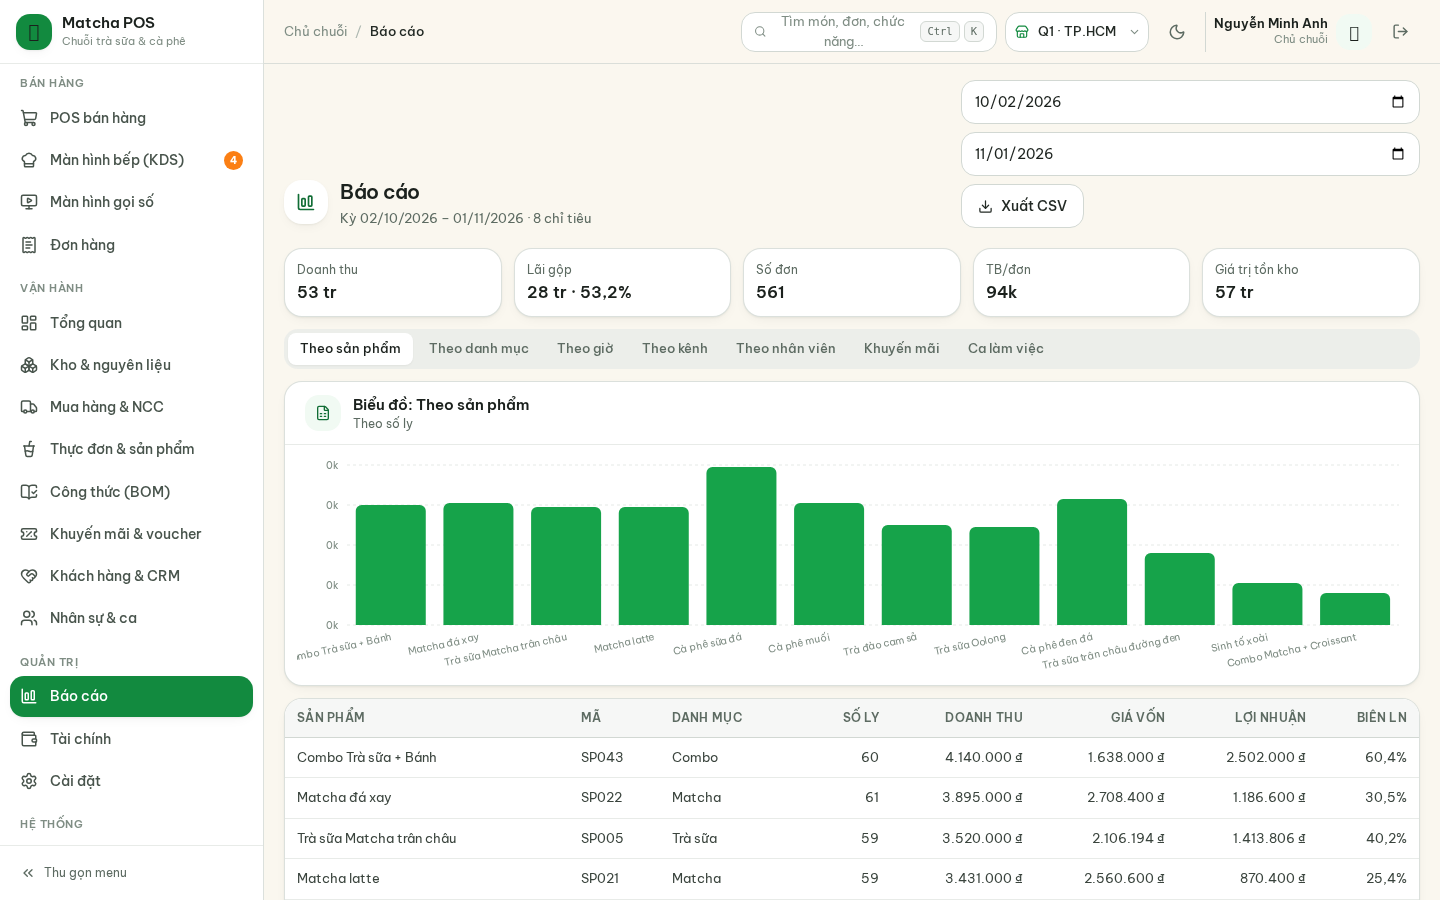
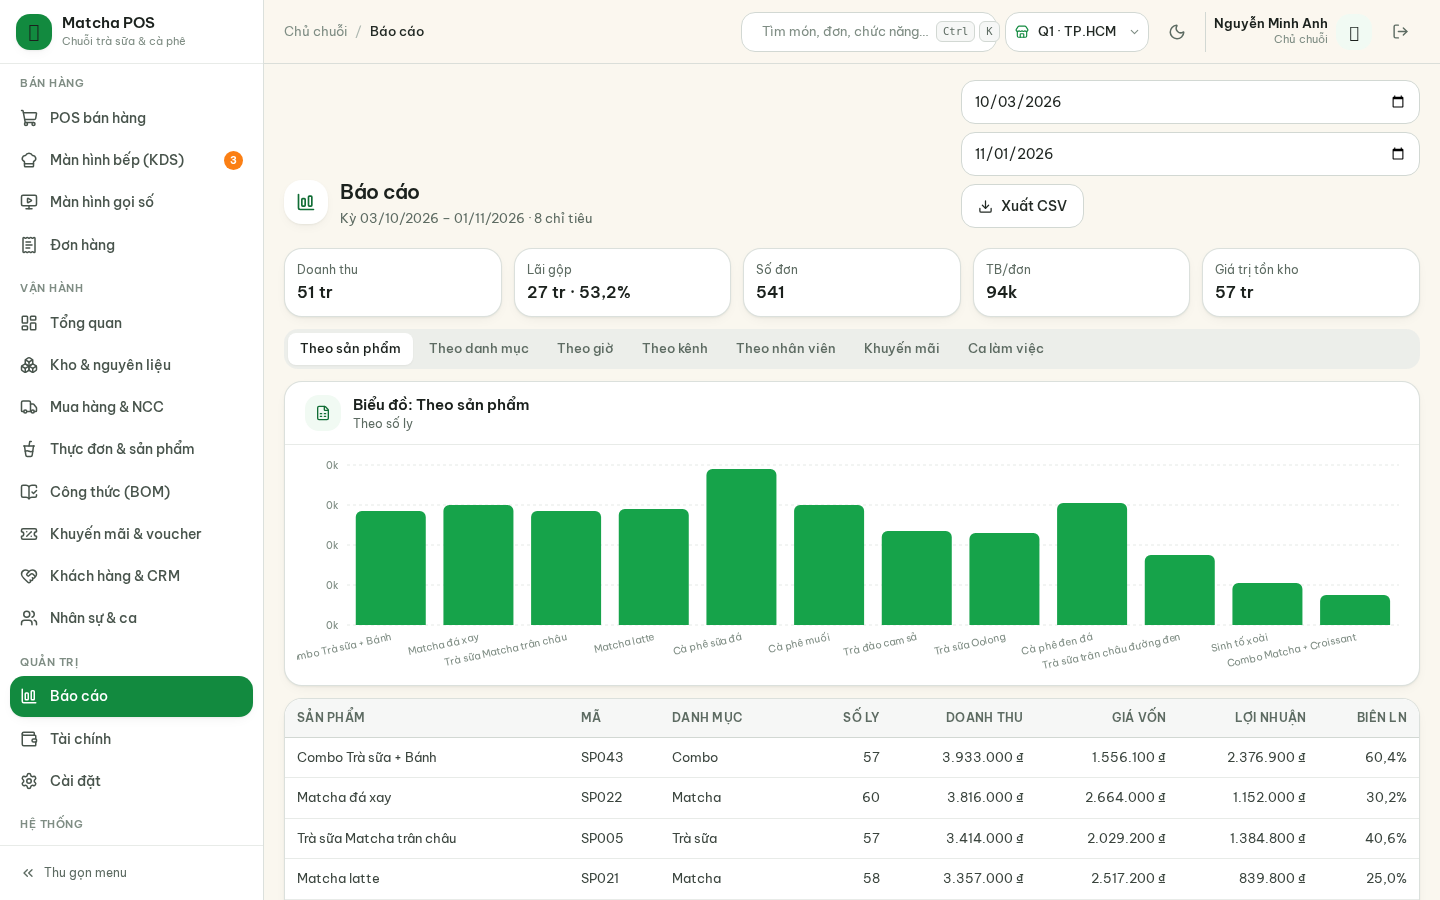
Sửa lỗi lệch 1 ngày trong addDays (báo cáo/dashboard), cập nhật build + README deploy

diff --git a/build/assets/index-DjHjswyF.js b/build/assets/index-DjHjswyF.js
@@ -385,7 +385,7 @@ CREATE TABLE app_meta (
     INSERT INTO inventory_stock (branch_id, ingredient_id, qty, avg_cost, updated_at)
     SELECT branch_id, ingredient_id, ROUND(SUM(qty), 2), MAX(unit_cost), '${F(Fi)}'
     FROM inventory_txns GROUP BY branch_id, ingredient_id
-  `);let de=1,fe=[[`rent`,55e6],[`salary`,0],[`utilities`,85e5],[`marketing`,6e6],[`other`,32e5]];for(let e=2;e>=0;e--){let t=new Date(Fi);t.setUTCMonth(t.getUTCMonth()-e,1);let r=`${t.getUTCFullYear()}-${String(t.getUTCMonth()+1).padStart(2,`0`)}`;Li.forEach((e,t)=>{let i=[1,.82,.92][t];fe.forEach(([e,a])=>{e!==`salary`&&n(`finance_entries`,{id:de++,branch_id:t+1,entry_date:`${r}-05`,type:`expense`,category:e,amount:Math.round(a*i),ref_type:null,ref_id:null,note:e===`rent`?`Tiền thuê mặt bằng`:e===`utilities`?`Điện, nước, internet`:e===`marketing`?`Quảng cáo & POS`:`Chi phí khác`,created_by:10,created_at:`${r}-05 09:00:00`})});let a=Ri.filter(e=>e.branch===t+1).reduce((e,t)=>e+t.salary,0);n(`finance_entries`,{id:de++,branch_id:t+1,entry_date:`${r}-28`,type:`expense`,category:`salary`,amount:a,note:`Chi lương nhân sự tháng`,created_by:10,created_at:`${r}-28 17:00:00`})})}let E=e.exec(`SELECT id, branch_id, total, received_at FROM purchase_orders WHERE status='received' ORDER BY id`);return E[0]&&E[0].values.forEach(([e,t,r,i])=>{n(`finance_entries`,{id:de++,branch_id:t,entry_date:String(i).slice(0,10),type:`expense`,category:`purchase`,amount:r,ref_type:`purchase_orders`,ref_id:e,note:`Thanh toán nhập hàng PO${String(e).padStart(4,`0`)}`,created_by:10,created_at:String(i)})}),[[`update_price`,`products`,`1`,`Đổi giá Trà sữa trân châu: 42.000 → 45.000`],[`cancel_order`,`orders`,`2`,`Huỷ đơn HD20261028-0012, lý do: khách đổi ý`],[`stock_adjust`,`inventory_stock`,`12`,`Điều chỉnh tồn trân châu đen +120g`],[`apply_voucher`,`vouchers`,`1`,`Áp voucher MATCHA20 cho đơn 200k`],[`create_po`,`purchase_orders`,`3`,`Tạo PO từ đề xuất tồn kho thấp`]].forEach(([e,t,r,i],a)=>n(`audit_logs`,{id:a+1,user_id:[2,2,10,4,1][a],action:e,entity:t,entity_id:r,before_value:null,after_value:JSON.stringify({note:i}),created_at:`2026-10-${20+a} 10:${10+a*5}:00`})),n(`app_meta`,{key:`schema_version`,value:`3`}),n(`app_meta`,{key:`seeded_at`,value:F(Fi)}),n(`app_meta`,{key:`currency`,value:`VND`}),n(`app_meta`,{key:`timezone`,value:`Asia/Ho_Chi_Minh`}),e.run(`COMMIT`),`branches.users.categories.products.product_sizes.toppings.product_toppings.orders.order_items.order_item_toppings.payments.order_events.dining_tables.shifts.shift_cash_txns.ingredients.recipes.inventory_stock.inventory_txns.suppliers.purchase_orders.purchase_order_items.customers.vouchers.promotions.finance_entries.audit_logs.app_meta`.split(`.`).forEach(n=>{let r=e.exec(`SELECT COUNT(*) FROM ${n}`);t[n]=r[0]?.values[0][0]}),{counts:t,seededAt:F(Fi)}}var ea=new Map;Bi.forEach((e,t)=>{let n=Gi[e.name]??[];(e.noSize?[[`M`,1]]:[[`S`,.85],[`M`,1],[`L`,1.2]]).forEach(([e,r])=>{ea.set(`${t+1}-${e}`,n.map(([e,t])=>[Wi.get(e)+1,Math.max(1,Math.round(t*r))]))})});var ta=`matcha-pos`,na=`sqlite`,ra=`db-bytes`,ia=`db-meta`,aa=null,oa=null,sa=new Set,ca=typeof BroadcastChannel<`u`?new BroadcastChannel(`matcha-pos`):null;ca?.addEventListener(`message`,()=>sa.forEach(e=>e()));var la={subscribe(e){return sa.add(e),()=>sa.delete(e)},emit(){sa.forEach(e=>e());try{ca?.postMessage({t:Date.now()})}catch{}}};function ua(){return new Promise((e,t)=>{let n=indexedDB.open(ta,1);n.onupgradeneeded=()=>{n.result.objectStoreNames.contains(na)||n.result.createObjectStore(na)},n.onsuccess=()=>e(n.result),n.onerror=()=>t(n.error)})}async function da(e){let t=await ua();return new Promise((n,r)=>{let i=t.transaction(na,`readonly`).objectStore(na).get(e);i.onsuccess=()=>n(i.result),i.onerror=()=>r(i.error)})}async function fa(e,t){let n=await ua();return new Promise((r,i)=>{let a=n.transaction(na,`readwrite`);a.objectStore(na).put(t,e),a.oncomplete=()=>r(),a.onerror=()=>i(a.error)})}async function pa(){let e=await ua();return new Promise((t,n)=>{let r=e.transaction(na,`readwrite`);r.objectStore(na).clear(),r.oncomplete=()=>t(),r.onerror=()=>n(r.error)})}var ma=null,ha=!1;function ga(e=!1){ha=!0,ma&&clearTimeout(ma);let t=async()=>{if(!aa||!ha)return;ha=!1;let e=aa.export();await fa(ra,e),await fa(ia,{version:3,savedAt:new Date().toISOString(),size:e.byteLength})};if(e)return t();ma=setTimeout(()=>void t(),900)}async function _a(e){let t=performance.now();e?.({step:`Khởi động SQLite WASM`,detail:`sql.js · ~1.2MB`}),oa=await(0,Ti.default)({locateFile:()=>oe}),e?.({step:`Tìm dữ liệu đã lưu`,detail:`IndexedDB`});let n=await da(ra),r=await da(ia);if(n&&r?.version===3)return aa=new oa.Database(n),aa.run(`PRAGMA foreign_keys = ON`),e?.({step:`Đã nạp dữ liệu`,detail:`${(n.byteLength/1048576).toFixed(1)} MB từ IndexedDB`}),{seeded:!1,ms:Math.round(performance.now()-t)};e?.({step:`Tạo schema quan hệ`,detail:`28 bảng · PK/FK · index`}),aa=new oa.Database,await new Promise(e=>setTimeout(e,30)),e?.({step:`Sinh dữ liệu demo 90 ngày`,detail:`3 chi nhánh · 220 khách · ~4.000 đơn`});let i=$i(aa);return aa.run(`PRAGMA foreign_keys = ON`),e?.({step:`Lưu vào IndexedDB`,detail:`${(aa.export().byteLength/1048576).toFixed(1)} MB`}),await ga(!0),console.info(`[matcha-pos] seeded`,i.counts),{seeded:!0,ms:Math.round(performance.now()-t)}}function va(){if(!aa)throw Error(`CSDL chưa sẵn sàng`);return aa}async function ya(e){return e?.({step:`Xoá dữ liệu cũ`}),await pa(),aa?.close(),aa=null,_a(e)}function I(e,t=[]){let n=va().prepare(e);try{n.bind(t);let e=[];for(;n.step();)e.push(n.getAsObject());return e}finally{n.free()}}function L(e,t=[]){let n=I(e,t);return n.length?n[0]:null}function R(e,t=[]){let n=I(e,t);return n.length?Object.values(n[0])[0]??null:null}function z(e,t=[],n={}){va().run(e,t),n.silent||(ga(),la.emit())}function ba(e,t={}){let n=va();n.run(`BEGIN`);try{e.forEach(e=>n.run(e.sql,e.params??[])),n.run(`COMMIT`)}catch(e){throw n.run(`ROLLBACK`),e}t.silent||(ga(),la.emit())}function xa(){return R(`SELECT last_insert_rowid()`)??0}function Sa(e){return R(`SELECT COUNT(*) FROM "${e}"`)??0}function Ca(){return aa?aa.export().byteLength:0}function wa(e){let t=e.trim().replace(/;+\s*$/,``),n=t.split(/\s+/)[0]?.toLowerCase();if(![`select`,`with`,`pragma`,`explain`].includes(n))throw Error(`Chỉ cho phép truy vấn đọc dữ liệu (SELECT / WITH / PRAGMA / EXPLAIN).`);if(/;\s*\S/.test(t))throw Error(`Mỗi lần chỉ chạy một câu lệnh.`);if(/\b(insert|update|delete|drop|alter|create|replace|attach|vacuum|reindex)\b/i.test(t))throw Error(`Phát hiện từ khoá ghi dữ liệu — SQL Console ở chế độ chỉ đọc.`);let r=performance.now(),i=va().exec(t),a=Math.round((performance.now()-r)*10)/10;if(!i.length)return{columns:[],rows:[],ms:a,rowCount:0};let{columns:o,values:s}=i[0];return{columns:o,rows:s.slice(0,500),ms:a,rowCount:s.length}}var Ta=`Asia/Ho_Chi_Minh`;function B(e,t={}){let n=Number(e??0);if(t.compact){let e=Math.abs(n),r=n<0?`-`:t.sign&&n>0?`+`:``;if(e>=1e9)return`${r}${(e/1e9).toFixed(e>=1e10?0:1).replace(`.`,`,`)} tỷ`;if(e>=1e6)return`${r}${(e/1e6).toFixed(e>=1e7?0:1).replace(`.`,`,`)} tr`;if(e>=1e4)return`${r}${Math.round(e/1e3)}k`}let r=new Intl.NumberFormat(`vi-VN`,{maximumFractionDigits:0}).format(n);return t.sign&&n>0?`+${r} ₫`:`${r} ₫`}function V(e,t=0){let n=Number(e??0);return new Intl.NumberFormat(`vi-VN`,{maximumFractionDigits:t,minimumFractionDigits:0}).format(n)}function Ea(e,t=1){return`${(e*100).toFixed(t).replace(`.`,`,`)}%`}function Da(e){if(!e)return null;let t=e.includes(`T`)?e:e.replace(` `,`T`),n=new Date(t.length<=10?`${t}T00:00:00+07:00`:`${t}+07:00`);return isNaN(n.getTime())?null:n}function Oa(e){return e?e.slice(0,10).split(`-`).reverse().join(`/`):`—`}function ka(e){return e?`${Oa(e)} ${e.slice(11,16)}`:`—`}function Aa(e){return e?e.slice(11,16):`—`}function H(){let e=new Intl.DateTimeFormat(`en-GB`,{timeZone:Ta,year:`numeric`,month:`2-digit`,day:`2-digit`,hour:`2-digit`,minute:`2-digit`,second:`2-digit`,hour12:!1}).formatToParts(new Date),t=t=>e.find(e=>e.type===t)?.value??`00`;return`${t(`year`)}-${t(`month`)}-${t(`day`)} ${t(`hour`)===`24`?`00`:t(`hour`)}:${t(`minute`)}:${t(`second`)}`}function ja(){return H().slice(0,10)}function Ma(e,t){let n=Da(e);return n.setUTCDate(n.getUTCDate()+t),n.toISOString().slice(0,10)}function Na(e){let t=Da(e);if(!t)return 0;let n=Da(H());return Math.max(0,Math.round((n.getTime()-t.getTime())/6e4))}function Pa(e){let t=Na(e);return t<1?`vừa xong`:t<60?`${t} phút`:`${Math.floor(t/60)}h${String(t%60).padStart(2,`0`)}`}var Fa={dine_in:`Tại quán`,takeaway:`Mang đi`,delivery:`Giao hàng`},Ia={pos:`POS`,grabfood:`GrabFood`,shopeefood:`ShopeeFood`,website:`Website`,app:`App`},La={pending:`Chờ pha chế`,preparing:`Đang pha chế`,ready:`Sẵn sàng`,completed:`Hoàn tất`,cancelled:`Đã huỷ`,draft:`Nháp`,ordered:`Đã đặt`,received:`Đã nhận`,open:`Đang mở`,closed:`Đã chốt`},Ra={cash:`Tiền mặt`,qr:`Chuyển khoản / VietQR`,card:`Thẻ ngân hàng`,momo:`Ví MoMo`,zalopay:`ZaloPay`,credit:`Ghi nợ`},za={owner:`Chủ chuỗi`,manager:`Quản lý cửa hàng`,cashier:`Thu ngân`,barista:`Pha chế / Bếp`,accountant:`Kế toán / Kho`},Ba={bronze:{label:`Đồng`,color:`bg-amber-100 text-amber-800`,emoji:`🥉`},silver:{label:`Bạc`,color:`bg-slate-100 text-slate-700`,emoji:`🥈`},gold:{label:`Vàng`,color:`bg-yellow-100 text-yellow-800`,emoji:`🥇`},diamond:{label:`Kim cương`,color:`bg-sky-100 text-sky-800`,emoji:`💎`}};function U(...e){return e.filter(Boolean).join(` `)}function Va(e){return(e||``).normalize(`NFD`).replace(/[\u0300-\u036f]/g,``).replace(/đ/g,`d`).replace(/Đ/g,`D`).toLowerCase()}function Ha(e){let t=e==null?``:String(e);return/[",\n;]/.test(t)?`"${t.replace(/"/g,`""`)}"`:t}function Ua(e,t,n=`text/csv;charset=utf-8;`){let r=new Blob([``+t],{type:n}),i=URL.createObjectURL(r),a=document.createElement(`a`);a.href=i,a.download=e,a.click(),setTimeout(()=>URL.revokeObjectURL(i),1e3)}function Wa(e,t){if(!e.length)return``;let n=t??Object.keys(e[0]);return`${n.join(`,`)}\n${e.map(e=>n.map(t=>Ha(e[t])).join(`,`)).join(`
+  `);let de=1,fe=[[`rent`,55e6],[`salary`,0],[`utilities`,85e5],[`marketing`,6e6],[`other`,32e5]];for(let e=2;e>=0;e--){let t=new Date(Fi);t.setUTCMonth(t.getUTCMonth()-e,1);let r=`${t.getUTCFullYear()}-${String(t.getUTCMonth()+1).padStart(2,`0`)}`;Li.forEach((e,t)=>{let i=[1,.82,.92][t];fe.forEach(([e,a])=>{e!==`salary`&&n(`finance_entries`,{id:de++,branch_id:t+1,entry_date:`${r}-05`,type:`expense`,category:e,amount:Math.round(a*i),ref_type:null,ref_id:null,note:e===`rent`?`Tiền thuê mặt bằng`:e===`utilities`?`Điện, nước, internet`:e===`marketing`?`Quảng cáo & POS`:`Chi phí khác`,created_by:10,created_at:`${r}-05 09:00:00`})});let a=Ri.filter(e=>e.branch===t+1).reduce((e,t)=>e+t.salary,0);n(`finance_entries`,{id:de++,branch_id:t+1,entry_date:`${r}-28`,type:`expense`,category:`salary`,amount:a,note:`Chi lương nhân sự tháng`,created_by:10,created_at:`${r}-28 17:00:00`})})}let E=e.exec(`SELECT id, branch_id, total, received_at FROM purchase_orders WHERE status='received' ORDER BY id`);return E[0]&&E[0].values.forEach(([e,t,r,i])=>{n(`finance_entries`,{id:de++,branch_id:t,entry_date:String(i).slice(0,10),type:`expense`,category:`purchase`,amount:r,ref_type:`purchase_orders`,ref_id:e,note:`Thanh toán nhập hàng PO${String(e).padStart(4,`0`)}`,created_by:10,created_at:String(i)})}),[[`update_price`,`products`,`1`,`Đổi giá Trà sữa trân châu: 42.000 → 45.000`],[`cancel_order`,`orders`,`2`,`Huỷ đơn HD20261028-0012, lý do: khách đổi ý`],[`stock_adjust`,`inventory_stock`,`12`,`Điều chỉnh tồn trân châu đen +120g`],[`apply_voucher`,`vouchers`,`1`,`Áp voucher MATCHA20 cho đơn 200k`],[`create_po`,`purchase_orders`,`3`,`Tạo PO từ đề xuất tồn kho thấp`]].forEach(([e,t,r,i],a)=>n(`audit_logs`,{id:a+1,user_id:[2,2,10,4,1][a],action:e,entity:t,entity_id:r,before_value:null,after_value:JSON.stringify({note:i}),created_at:`2026-10-${20+a} 10:${10+a*5}:00`})),n(`app_meta`,{key:`schema_version`,value:`3`}),n(`app_meta`,{key:`seeded_at`,value:F(Fi)}),n(`app_meta`,{key:`currency`,value:`VND`}),n(`app_meta`,{key:`timezone`,value:`Asia/Ho_Chi_Minh`}),e.run(`COMMIT`),`branches.users.categories.products.product_sizes.toppings.product_toppings.orders.order_items.order_item_toppings.payments.order_events.dining_tables.shifts.shift_cash_txns.ingredients.recipes.inventory_stock.inventory_txns.suppliers.purchase_orders.purchase_order_items.customers.vouchers.promotions.finance_entries.audit_logs.app_meta`.split(`.`).forEach(n=>{let r=e.exec(`SELECT COUNT(*) FROM ${n}`);t[n]=r[0]?.values[0][0]}),{counts:t,seededAt:F(Fi)}}var ea=new Map;Bi.forEach((e,t)=>{let n=Gi[e.name]??[];(e.noSize?[[`M`,1]]:[[`S`,.85],[`M`,1],[`L`,1.2]]).forEach(([e,r])=>{ea.set(`${t+1}-${e}`,n.map(([e,t])=>[Wi.get(e)+1,Math.max(1,Math.round(t*r))]))})});var ta=`matcha-pos`,na=`sqlite`,ra=`db-bytes`,ia=`db-meta`,aa=null,oa=null,sa=new Set,ca=typeof BroadcastChannel<`u`?new BroadcastChannel(`matcha-pos`):null;ca?.addEventListener(`message`,()=>sa.forEach(e=>e()));var la={subscribe(e){return sa.add(e),()=>sa.delete(e)},emit(){sa.forEach(e=>e());try{ca?.postMessage({t:Date.now()})}catch{}}};function ua(){return new Promise((e,t)=>{let n=indexedDB.open(ta,1);n.onupgradeneeded=()=>{n.result.objectStoreNames.contains(na)||n.result.createObjectStore(na)},n.onsuccess=()=>e(n.result),n.onerror=()=>t(n.error)})}async function da(e){let t=await ua();return new Promise((n,r)=>{let i=t.transaction(na,`readonly`).objectStore(na).get(e);i.onsuccess=()=>n(i.result),i.onerror=()=>r(i.error)})}async function fa(e,t){let n=await ua();return new Promise((r,i)=>{let a=n.transaction(na,`readwrite`);a.objectStore(na).put(t,e),a.oncomplete=()=>r(),a.onerror=()=>i(a.error)})}async function pa(){let e=await ua();return new Promise((t,n)=>{let r=e.transaction(na,`readwrite`);r.objectStore(na).clear(),r.oncomplete=()=>t(),r.onerror=()=>n(r.error)})}var ma=null,ha=!1;function ga(e=!1){ha=!0,ma&&clearTimeout(ma);let t=async()=>{if(!aa||!ha)return;ha=!1;let e=aa.export();await fa(ra,e),await fa(ia,{version:3,savedAt:new Date().toISOString(),size:e.byteLength})};if(e)return t();ma=setTimeout(()=>void t(),900)}async function _a(e){let t=performance.now();e?.({step:`Khởi động SQLite WASM`,detail:`sql.js · ~1.2MB`}),oa=await(0,Ti.default)({locateFile:()=>oe}),e?.({step:`Tìm dữ liệu đã lưu`,detail:`IndexedDB`});let n=await da(ra),r=await da(ia);if(n&&r?.version===3)return aa=new oa.Database(n),aa.run(`PRAGMA foreign_keys = ON`),e?.({step:`Đã nạp dữ liệu`,detail:`${(n.byteLength/1048576).toFixed(1)} MB từ IndexedDB`}),{seeded:!1,ms:Math.round(performance.now()-t)};e?.({step:`Tạo schema quan hệ`,detail:`28 bảng · PK/FK · index`}),aa=new oa.Database,await new Promise(e=>setTimeout(e,30)),e?.({step:`Sinh dữ liệu demo 90 ngày`,detail:`3 chi nhánh · 220 khách · ~4.000 đơn`});let i=$i(aa);return aa.run(`PRAGMA foreign_keys = ON`),e?.({step:`Lưu vào IndexedDB`,detail:`${(aa.export().byteLength/1048576).toFixed(1)} MB`}),await ga(!0),console.info(`[matcha-pos] seeded`,i.counts),{seeded:!0,ms:Math.round(performance.now()-t)}}function va(){if(!aa)throw Error(`CSDL chưa sẵn sàng`);return aa}async function ya(e){return e?.({step:`Xoá dữ liệu cũ`}),await pa(),aa?.close(),aa=null,_a(e)}function I(e,t=[]){let n=va().prepare(e);try{n.bind(t);let e=[];for(;n.step();)e.push(n.getAsObject());return e}finally{n.free()}}function L(e,t=[]){let n=I(e,t);return n.length?n[0]:null}function R(e,t=[]){let n=I(e,t);return n.length?Object.values(n[0])[0]??null:null}function z(e,t=[],n={}){va().run(e,t),n.silent||(ga(),la.emit())}function ba(e,t={}){let n=va();n.run(`BEGIN`);try{e.forEach(e=>n.run(e.sql,e.params??[])),n.run(`COMMIT`)}catch(e){throw n.run(`ROLLBACK`),e}t.silent||(ga(),la.emit())}function xa(){return R(`SELECT last_insert_rowid()`)??0}function Sa(e){return R(`SELECT COUNT(*) FROM "${e}"`)??0}function Ca(){return aa?aa.export().byteLength:0}function wa(e){let t=e.trim().replace(/;+\s*$/,``),n=t.split(/\s+/)[0]?.toLowerCase();if(![`select`,`with`,`pragma`,`explain`].includes(n))throw Error(`Chỉ cho phép truy vấn đọc dữ liệu (SELECT / WITH / PRAGMA / EXPLAIN).`);if(/;\s*\S/.test(t))throw Error(`Mỗi lần chỉ chạy một câu lệnh.`);if(/\b(insert|update|delete|drop|alter|create|replace|attach|vacuum|reindex)\b/i.test(t))throw Error(`Phát hiện từ khoá ghi dữ liệu — SQL Console ở chế độ chỉ đọc.`);let r=performance.now(),i=va().exec(t),a=Math.round((performance.now()-r)*10)/10;if(!i.length)return{columns:[],rows:[],ms:a,rowCount:0};let{columns:o,values:s}=i[0];return{columns:o,rows:s.slice(0,500),ms:a,rowCount:s.length}}var Ta=`Asia/Ho_Chi_Minh`;function B(e,t={}){let n=Number(e??0);if(t.compact){let e=Math.abs(n),r=n<0?`-`:t.sign&&n>0?`+`:``;if(e>=1e9)return`${r}${(e/1e9).toFixed(e>=1e10?0:1).replace(`.`,`,`)} tỷ`;if(e>=1e6)return`${r}${(e/1e6).toFixed(e>=1e7?0:1).replace(`.`,`,`)} tr`;if(e>=1e4)return`${r}${Math.round(e/1e3)}k`}let r=new Intl.NumberFormat(`vi-VN`,{maximumFractionDigits:0}).format(n);return t.sign&&n>0?`+${r} ₫`:`${r} ₫`}function V(e,t=0){let n=Number(e??0);return new Intl.NumberFormat(`vi-VN`,{maximumFractionDigits:t,minimumFractionDigits:0}).format(n)}function Ea(e,t=1){return`${(e*100).toFixed(t).replace(`.`,`,`)}%`}function Da(e){if(!e)return null;let t=e.includes(`T`)?e:e.replace(` `,`T`),n=new Date(t.length<=10?`${t}T00:00:00+07:00`:`${t}+07:00`);return isNaN(n.getTime())?null:n}function Oa(e){return e?e.slice(0,10).split(`-`).reverse().join(`/`):`—`}function ka(e){return e?`${Oa(e)} ${e.slice(11,16)}`:`—`}function Aa(e){return e?e.slice(11,16):`—`}function H(){let e=new Intl.DateTimeFormat(`en-GB`,{timeZone:Ta,year:`numeric`,month:`2-digit`,day:`2-digit`,hour:`2-digit`,minute:`2-digit`,second:`2-digit`,hour12:!1}).formatToParts(new Date),t=t=>e.find(e=>e.type===t)?.value??`00`;return`${t(`year`)}-${t(`month`)}-${t(`day`)} ${t(`hour`)===`24`?`00`:t(`hour`)}:${t(`minute`)}:${t(`second`)}`}function ja(){return H().slice(0,10)}function Ma(e,t){let n=new Date(`${e.slice(0,10)}T00:00:00Z`);return n.setUTCDate(n.getUTCDate()+t),n.toISOString().slice(0,10)}function Na(e){let t=Da(e);if(!t)return 0;let n=Da(H());return Math.max(0,Math.round((n.getTime()-t.getTime())/6e4))}function Pa(e){let t=Na(e);return t<1?`vừa xong`:t<60?`${t} phút`:`${Math.floor(t/60)}h${String(t%60).padStart(2,`0`)}`}var Fa={dine_in:`Tại quán`,takeaway:`Mang đi`,delivery:`Giao hàng`},Ia={pos:`POS`,grabfood:`GrabFood`,shopeefood:`ShopeeFood`,website:`Website`,app:`App`},La={pending:`Chờ pha chế`,preparing:`Đang pha chế`,ready:`Sẵn sàng`,completed:`Hoàn tất`,cancelled:`Đã huỷ`,draft:`Nháp`,ordered:`Đã đặt`,received:`Đã nhận`,open:`Đang mở`,closed:`Đã chốt`},Ra={cash:`Tiền mặt`,qr:`Chuyển khoản / VietQR`,card:`Thẻ ngân hàng`,momo:`Ví MoMo`,zalopay:`ZaloPay`,credit:`Ghi nợ`},za={owner:`Chủ chuỗi`,manager:`Quản lý cửa hàng`,cashier:`Thu ngân`,barista:`Pha chế / Bếp`,accountant:`Kế toán / Kho`},Ba={bronze:{label:`Đồng`,color:`bg-amber-100 text-amber-800`,emoji:`🥉`},silver:{label:`Bạc`,color:`bg-slate-100 text-slate-700`,emoji:`🥈`},gold:{label:`Vàng`,color:`bg-yellow-100 text-yellow-800`,emoji:`🥇`},diamond:{label:`Kim cương`,color:`bg-sky-100 text-sky-800`,emoji:`💎`}};function U(...e){return e.filter(Boolean).join(` `)}function Va(e){return(e||``).normalize(`NFD`).replace(/[\u0300-\u036f]/g,``).replace(/đ/g,`d`).replace(/Đ/g,`D`).toLowerCase()}function Ha(e){let t=e==null?``:String(e);return/[",\n;]/.test(t)?`"${t.replace(/"/g,`""`)}"`:t}function Ua(e,t,n=`text/csv;charset=utf-8;`){let r=new Blob([``+t],{type:n}),i=URL.createObjectURL(r),a=document.createElement(`a`);a.href=i,a.download=e,a.click(),setTimeout(()=>URL.revokeObjectURL(i),1e3)}function Wa(e,t){if(!e.length)return``;let n=t??Object.keys(e[0]);return`${n.join(`,`)}\n${e.map(e=>n.map(t=>Ha(e[t])).join(`,`)).join(`
 `)}`}var Ga=()=>I(`SELECT * FROM branches ORDER BY id`),Ka=()=>I(`SELECT u.*, b.name AS branch_name FROM users u LEFT JOIN branches b ON b.id = u.branch_id ORDER BY u.id`),qa=e=>L(`SELECT * FROM users WHERE lower(email) = lower(?) AND is_active = 1`,[e]),Ja=()=>I(`SELECT * FROM categories ORDER BY sort_order`),Ya=(e={})=>I(`SELECT p.*, c.name AS category_name, c.emoji AS category_emoji
      FROM products p JOIN categories c ON c.id = p.category_id
      ORDER BY c.sort_order, p.name`),Xa=()=>I(`SELECT * FROM toppings WHERE is_active = 1 ORDER BY id`),Za=e=>I(`SELECT t.* FROM toppings t JOIN product_toppings pt ON pt.topping_id = t.id

diff --git a/src/lib/format.ts b/src/lib/format.ts
@@ -59,15 +59,16 @@ export function todayVN() {
   return nowVN().slice(0, 10)
 }
 
+/** Cộng/trừ ngày trên chuỗi 'YYYY-MM-DD' (thuần lịch, không phụ thuộc múi giờ). */
 export function addDays(dateStr: string, days: number) {
-  const d = parseVN(dateStr)!
+  const d = new Date(`${dateStr.slice(0, 10)}T00:00:00Z`)
   d.setUTCDate(d.getUTCDate() + days)
   return d.toISOString().slice(0, 10)
 }
 
 export function daysBetween(a: string, b: string) {
-  const d1 = parseVN(a)!.getTime()
-  const d2 = parseVN(b)!.getTime()
+  const d1 = new Date(`${a.slice(0, 10)}T00:00:00Z`).getTime()
+  const d2 = new Date(`${b.slice(0, 10)}T00:00:00Z`).getTime()
   return Math.round((d2 - d1) / 86400000)
 }
 

diff --git a/build/index.html b/build/index.html
@@ -11,7 +11,7 @@
     <link rel="stylesheet" href="./fonts.css" />
     <link rel="preload" href="./fonts/bvp-400-vietnamese.woff2" as="font" type="font/woff2" crossorigin />
     <link rel="preload" href="./fonts/bvp-600-vietnamese.woff2" as="font" type="font/woff2" crossorigin />
-    <script type="module" crossorigin src="./assets/index-CATOl7Dl.js"></script>
+    <script type="module" crossorigin src="./assets/index-DjHjswyF.js"></script>
     <link rel="modulepreload" crossorigin href="./assets/rolldown-runtime-CNOWq4Kh.js">
     <link rel="modulepreload" crossorigin href="./assets/charts-BSmw8lDW.js">
     <link rel="modulepreload" crossorigin href="./assets/flow-B_2Khjx1.js">
